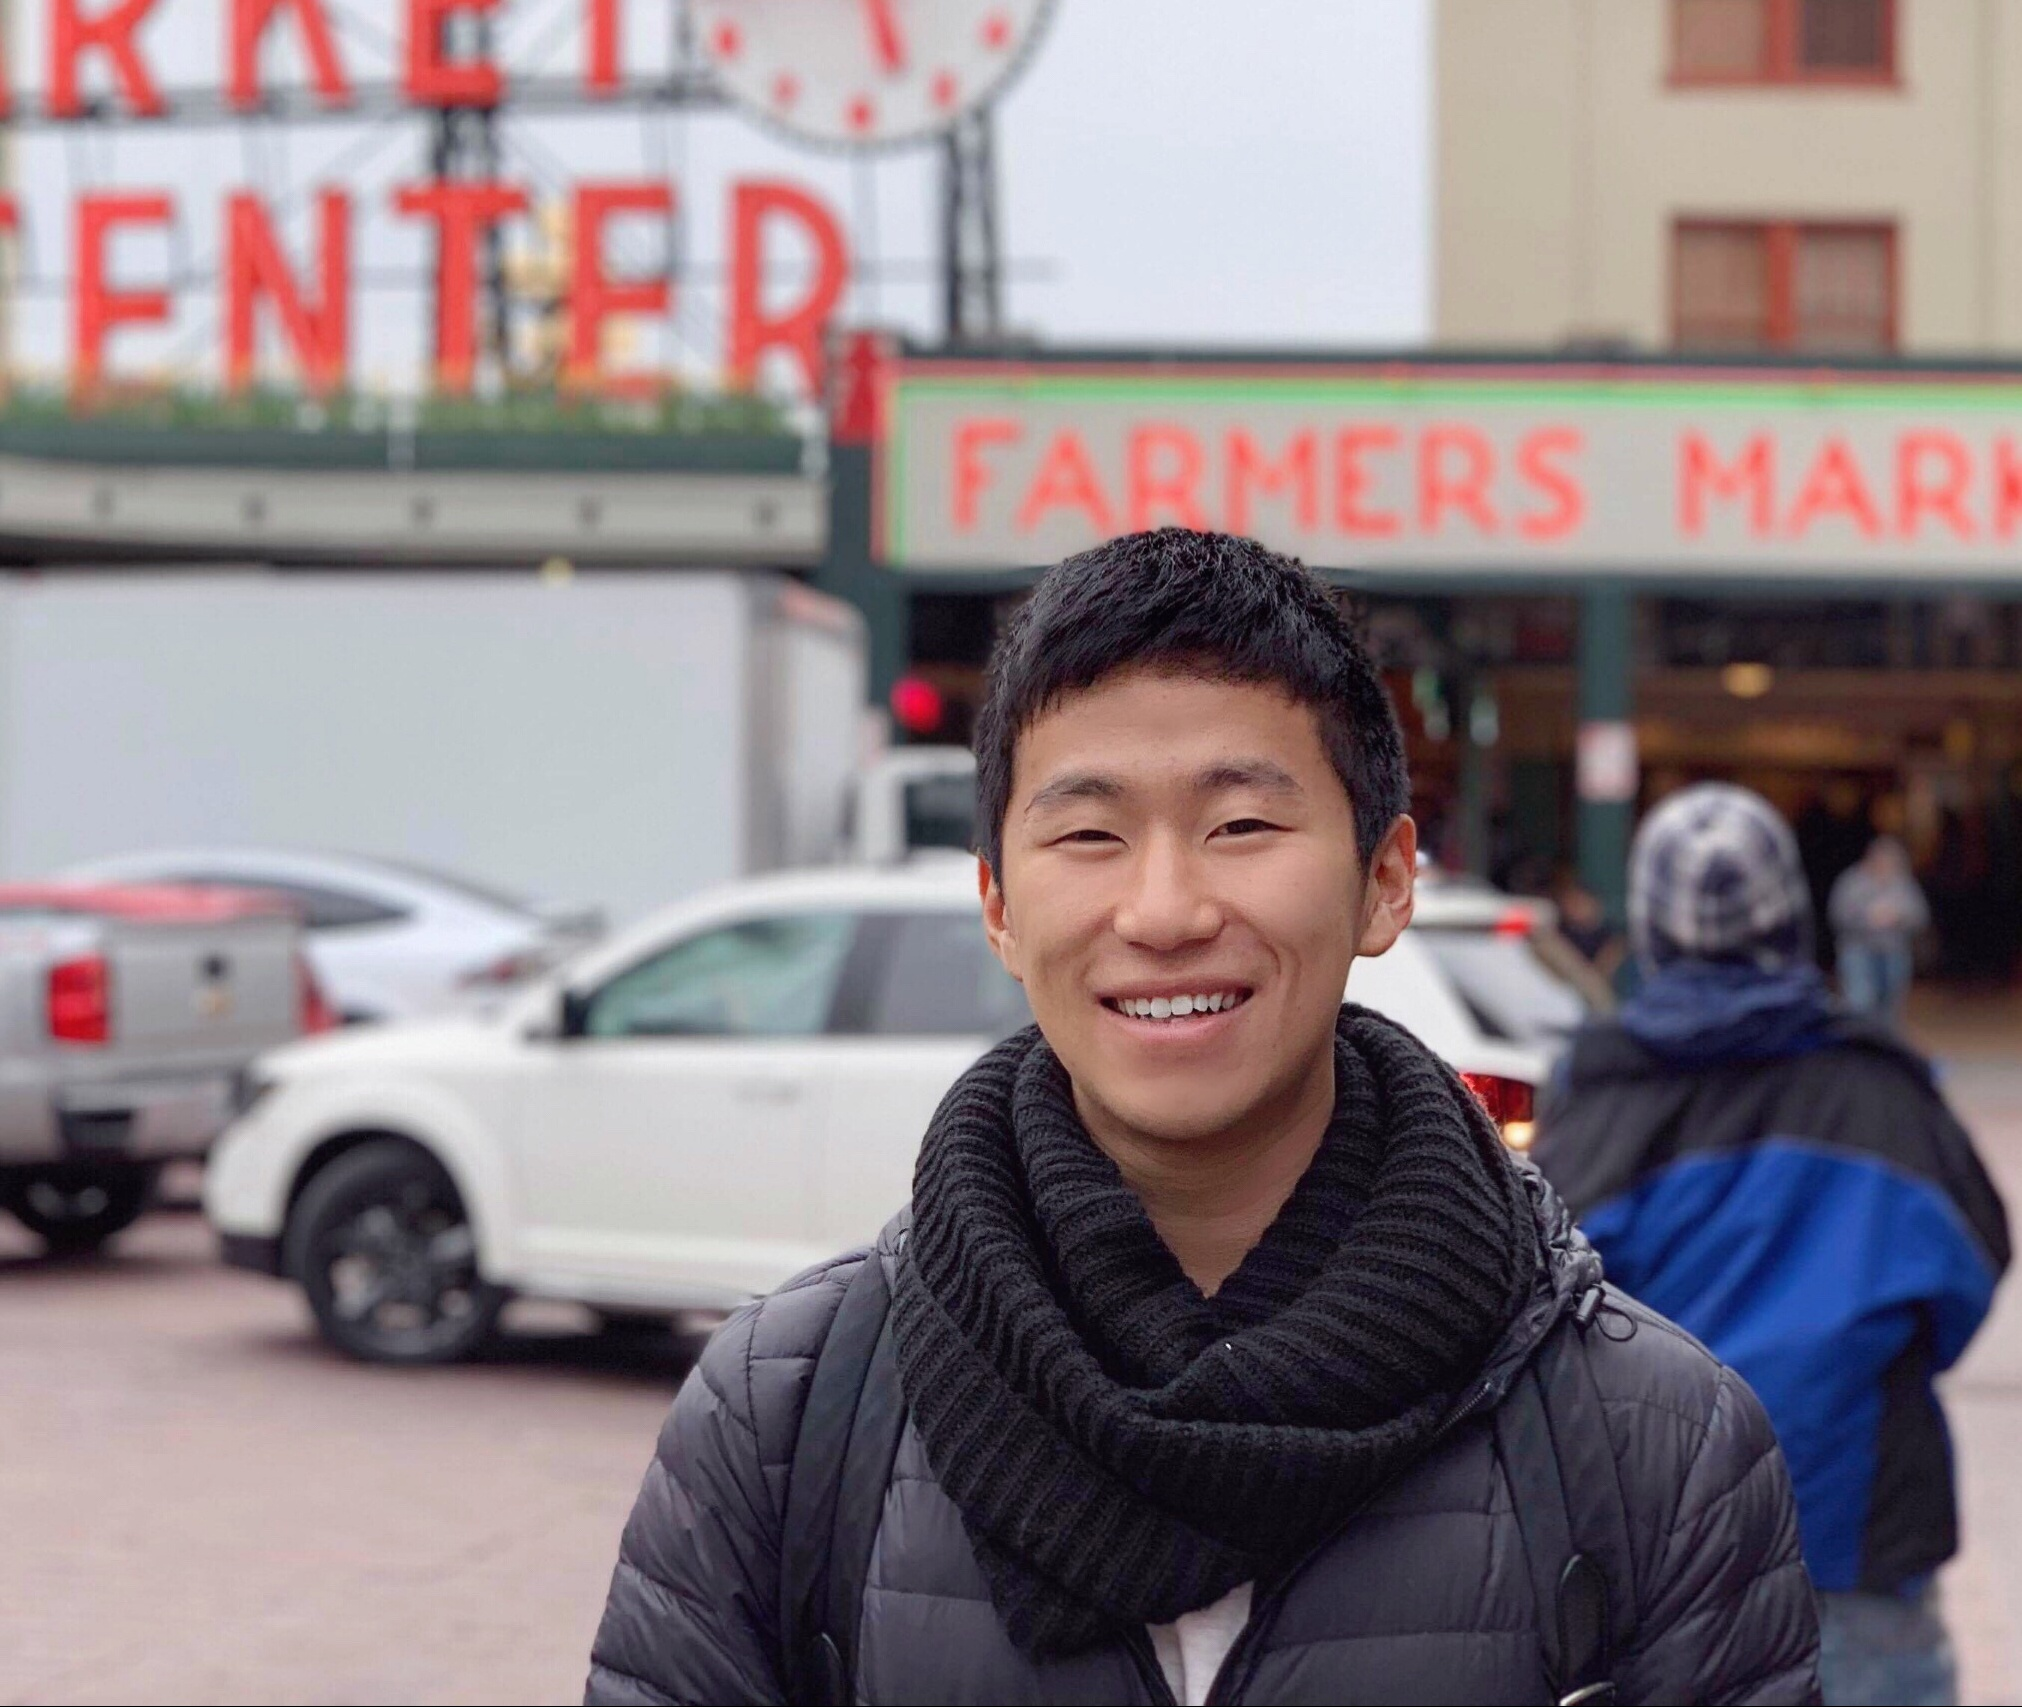
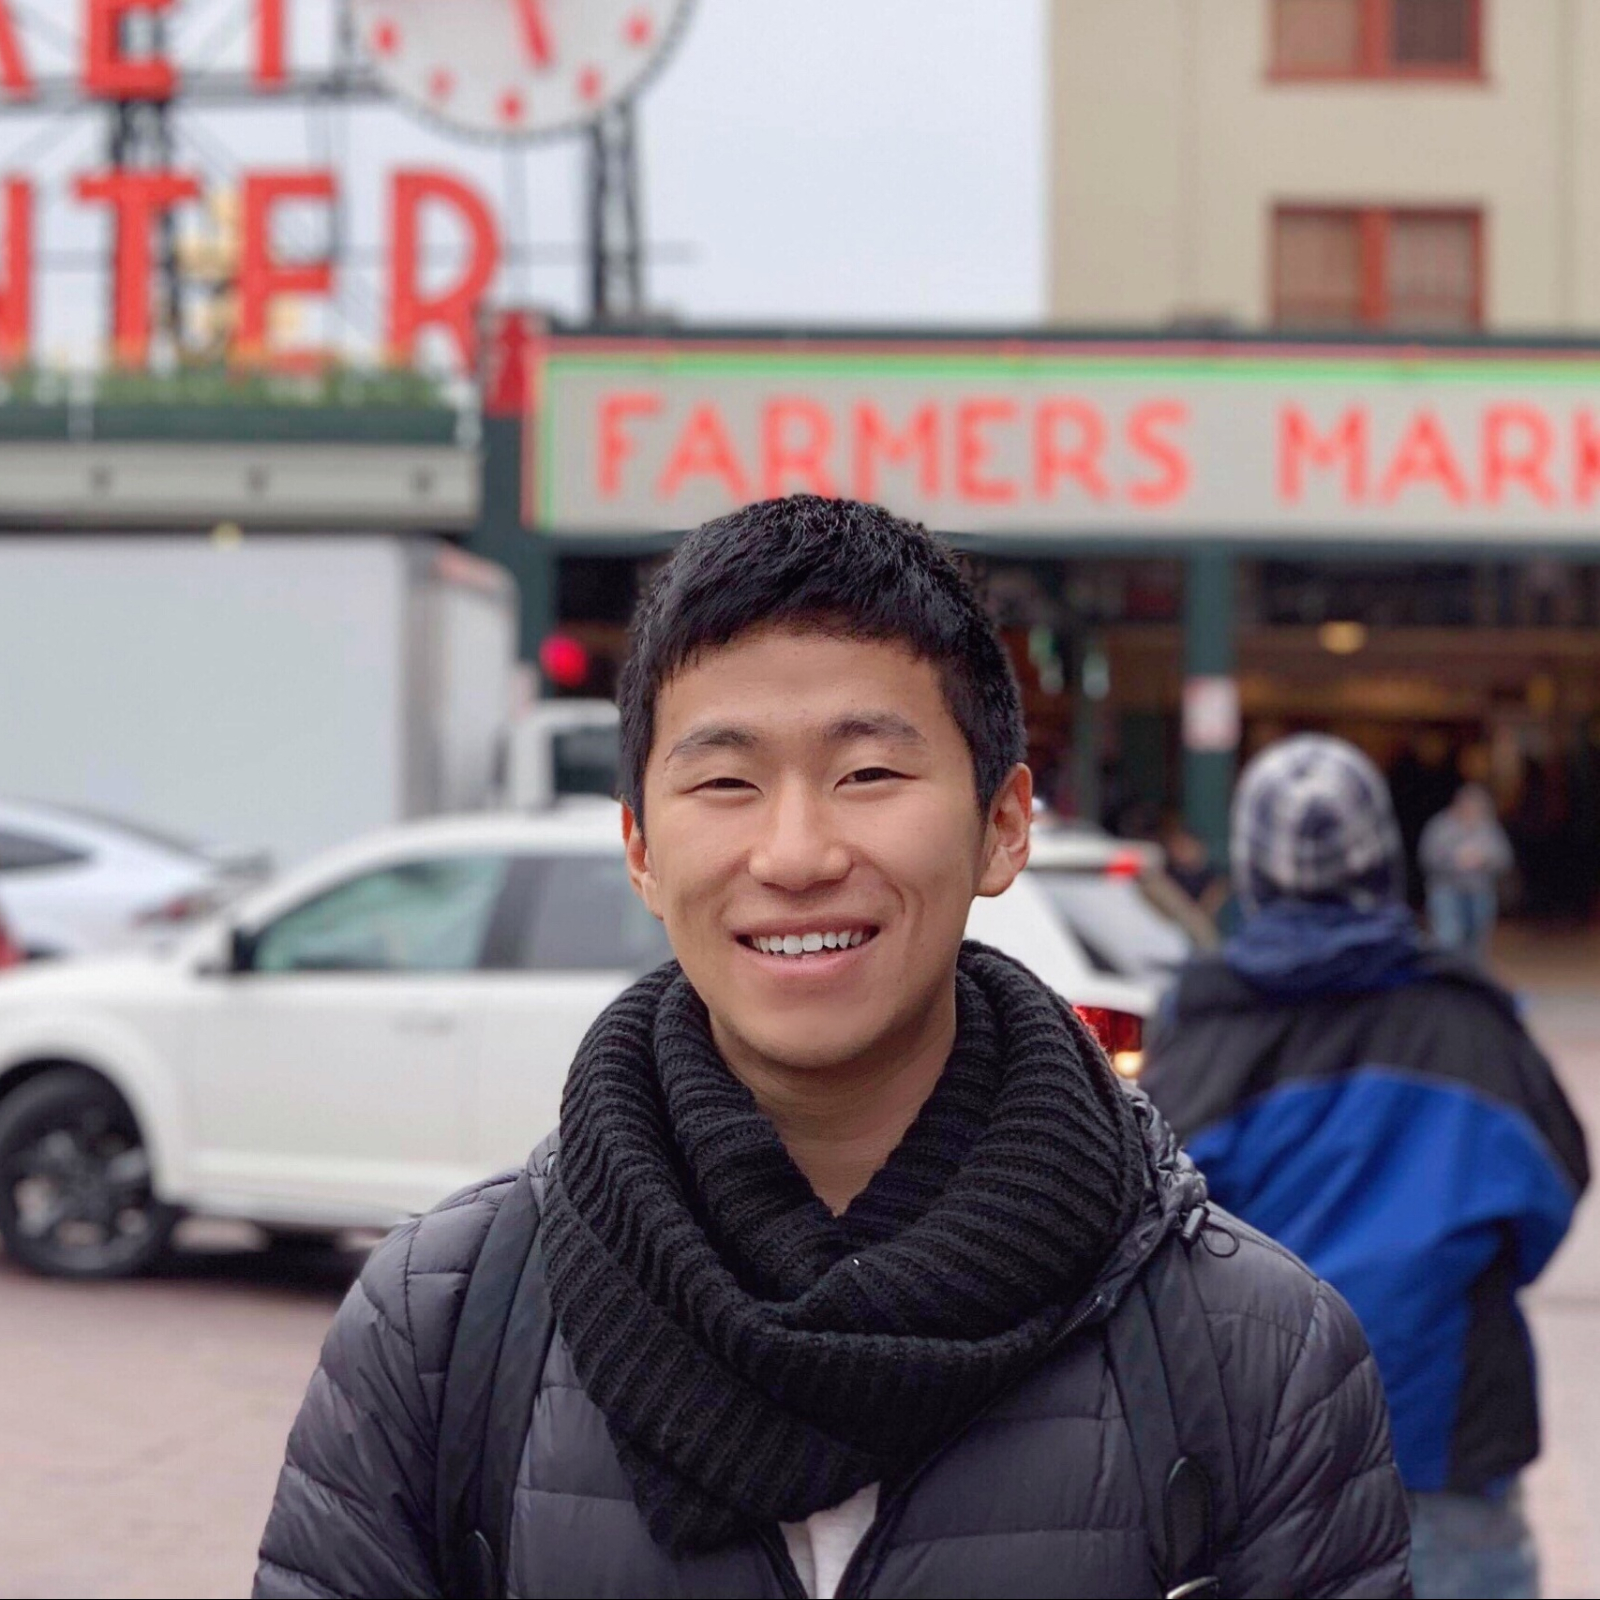
minor edits

diff --git a/assets/css/style.css b/assets/css/style.css
@@ -78,6 +78,16 @@ li {
 }
 
 /*
+.avatar {
+	margin-left: 2vw;
+  	vertical-align: middle;
+	width: 40px;
+	height: 40px;
+	border-radius: 50%;
+}
+*/
+
+/*
 #brand {
 	margin-left: 2vw;
 	height: 40px;
@@ -112,7 +122,7 @@ li a {
   	width: 17px;
   	text-align: center;
   	text-decoration: none;
-  	margin-top: 205px;
+  	margin-top: 200px;
   	margin-left: 5px;
   	margin-right: 5px;
   	border-radius: 100%;
@@ -180,16 +190,37 @@ li a {
 }
 
 #occupations {
-    margin-top: 20px;
+    margin-top: 15px;
     font-size: 20px;
 }
+
+/*
+i {
+	border: solid white;
+	height: 10px;
+	width: 10px;
+	border-width: 0 2px 2px 0;
+	display: inline-block;
+	padding: 3px;
+}
+
+i:hover {
+	opacity: 0.6;
+}
+
+.down {
+	transform: rotate(45deg);
+	-webkit-transform: rotate(45deg);
+	margin-top: 30px;
+}
+*/
 
 /* about page */
 #about {
     position: relative;
     width: 100vw;
     height: 110vh;
-    background-color: #F2F0F0;
+    background-color: #FCFBF9;
 }
 
 .subheading {
@@ -280,10 +311,12 @@ li a {
     margin: auto;
     margin-left: 50px;
     /* box-shadow: 5px 5px 5px grey; */
-    border-radius: 2%;
+    border-radius: 100%;
+/*
     border-width: 1px;
     border-color: #707070;
     border-style: solid;
+*/
 }
 
 /* projects page */
@@ -362,6 +395,9 @@ li a {
 /* iPhone 6, 7, 8 ----------- */
 @media only screen and (min-device-width: 375px) and (max-device-height: 667px) and (orientation : portrait) and (-webkit-device-pixel-ratio: 2){
 /* Styles */
+	#main {
+		height: 70vh;
+	}
 	#about {
 		height: 50vh;
 	}
@@ -374,7 +410,7 @@ li a {
 @media only screen and (min-device-width: 375px) and (max-device-height: 667px) and (orientation : landscape) and (-webkit-device-pixel-ratio: 2){
 /* Styles */
 	#main {
-		height: 150vh;
+/*		height: 150vh;*/
 	}
 	
 	#about {

diff --git a/index.html b/index.html
@@ -18,8 +18,9 @@
             <nav id="topbar-items">
                 <ul>
                     <li id="topbar-brand" style="float: left"> 
-                        <a href="#top">BQ</a>
-<!--						<img src="assets/img/brand3.png" id="brand">-->
+						<a href="#top">BQ</a>
+<!--						<img src="assets/img/brand3.png" id="brand">
+<!--						<img src="assets/img/avatar.png" alt="Avatar" class="avatar">-->
                     </li>
                     <li id="topbar-contact">
                             <a href="">Contact</a>
@@ -49,6 +50,7 @@
 					<a href="https://github.com/bqi7" class="fa fa-github"></a>
 					<a href="https://www.facebook.com/brian.qi.92" class="fa fa-facebook"></a>
 				</div>
+<!--				<a href="#about" class="arrow"><i class="arrow down"></i></a>-->
             </div>
 
             

diff --git a/assets/script/script.js b/assets/script/script.js
@@ -7,9 +7,9 @@ $(document).ready(function() {
                 setTimeout('$("#occupations").fadeOut()', 1600);
                 // document.getElementById("occupations").innerHTML = words[i];
                 $("#occupations").text(words[i]);
-                $("#occupations").fadeIn(400);
+                $("#occupations").fadeIn();
                 runSequence(++i);
-            }, 2000); 
+            }, 1980); 
 
         } else if (words.length == i) { 
             runSequence(0);
